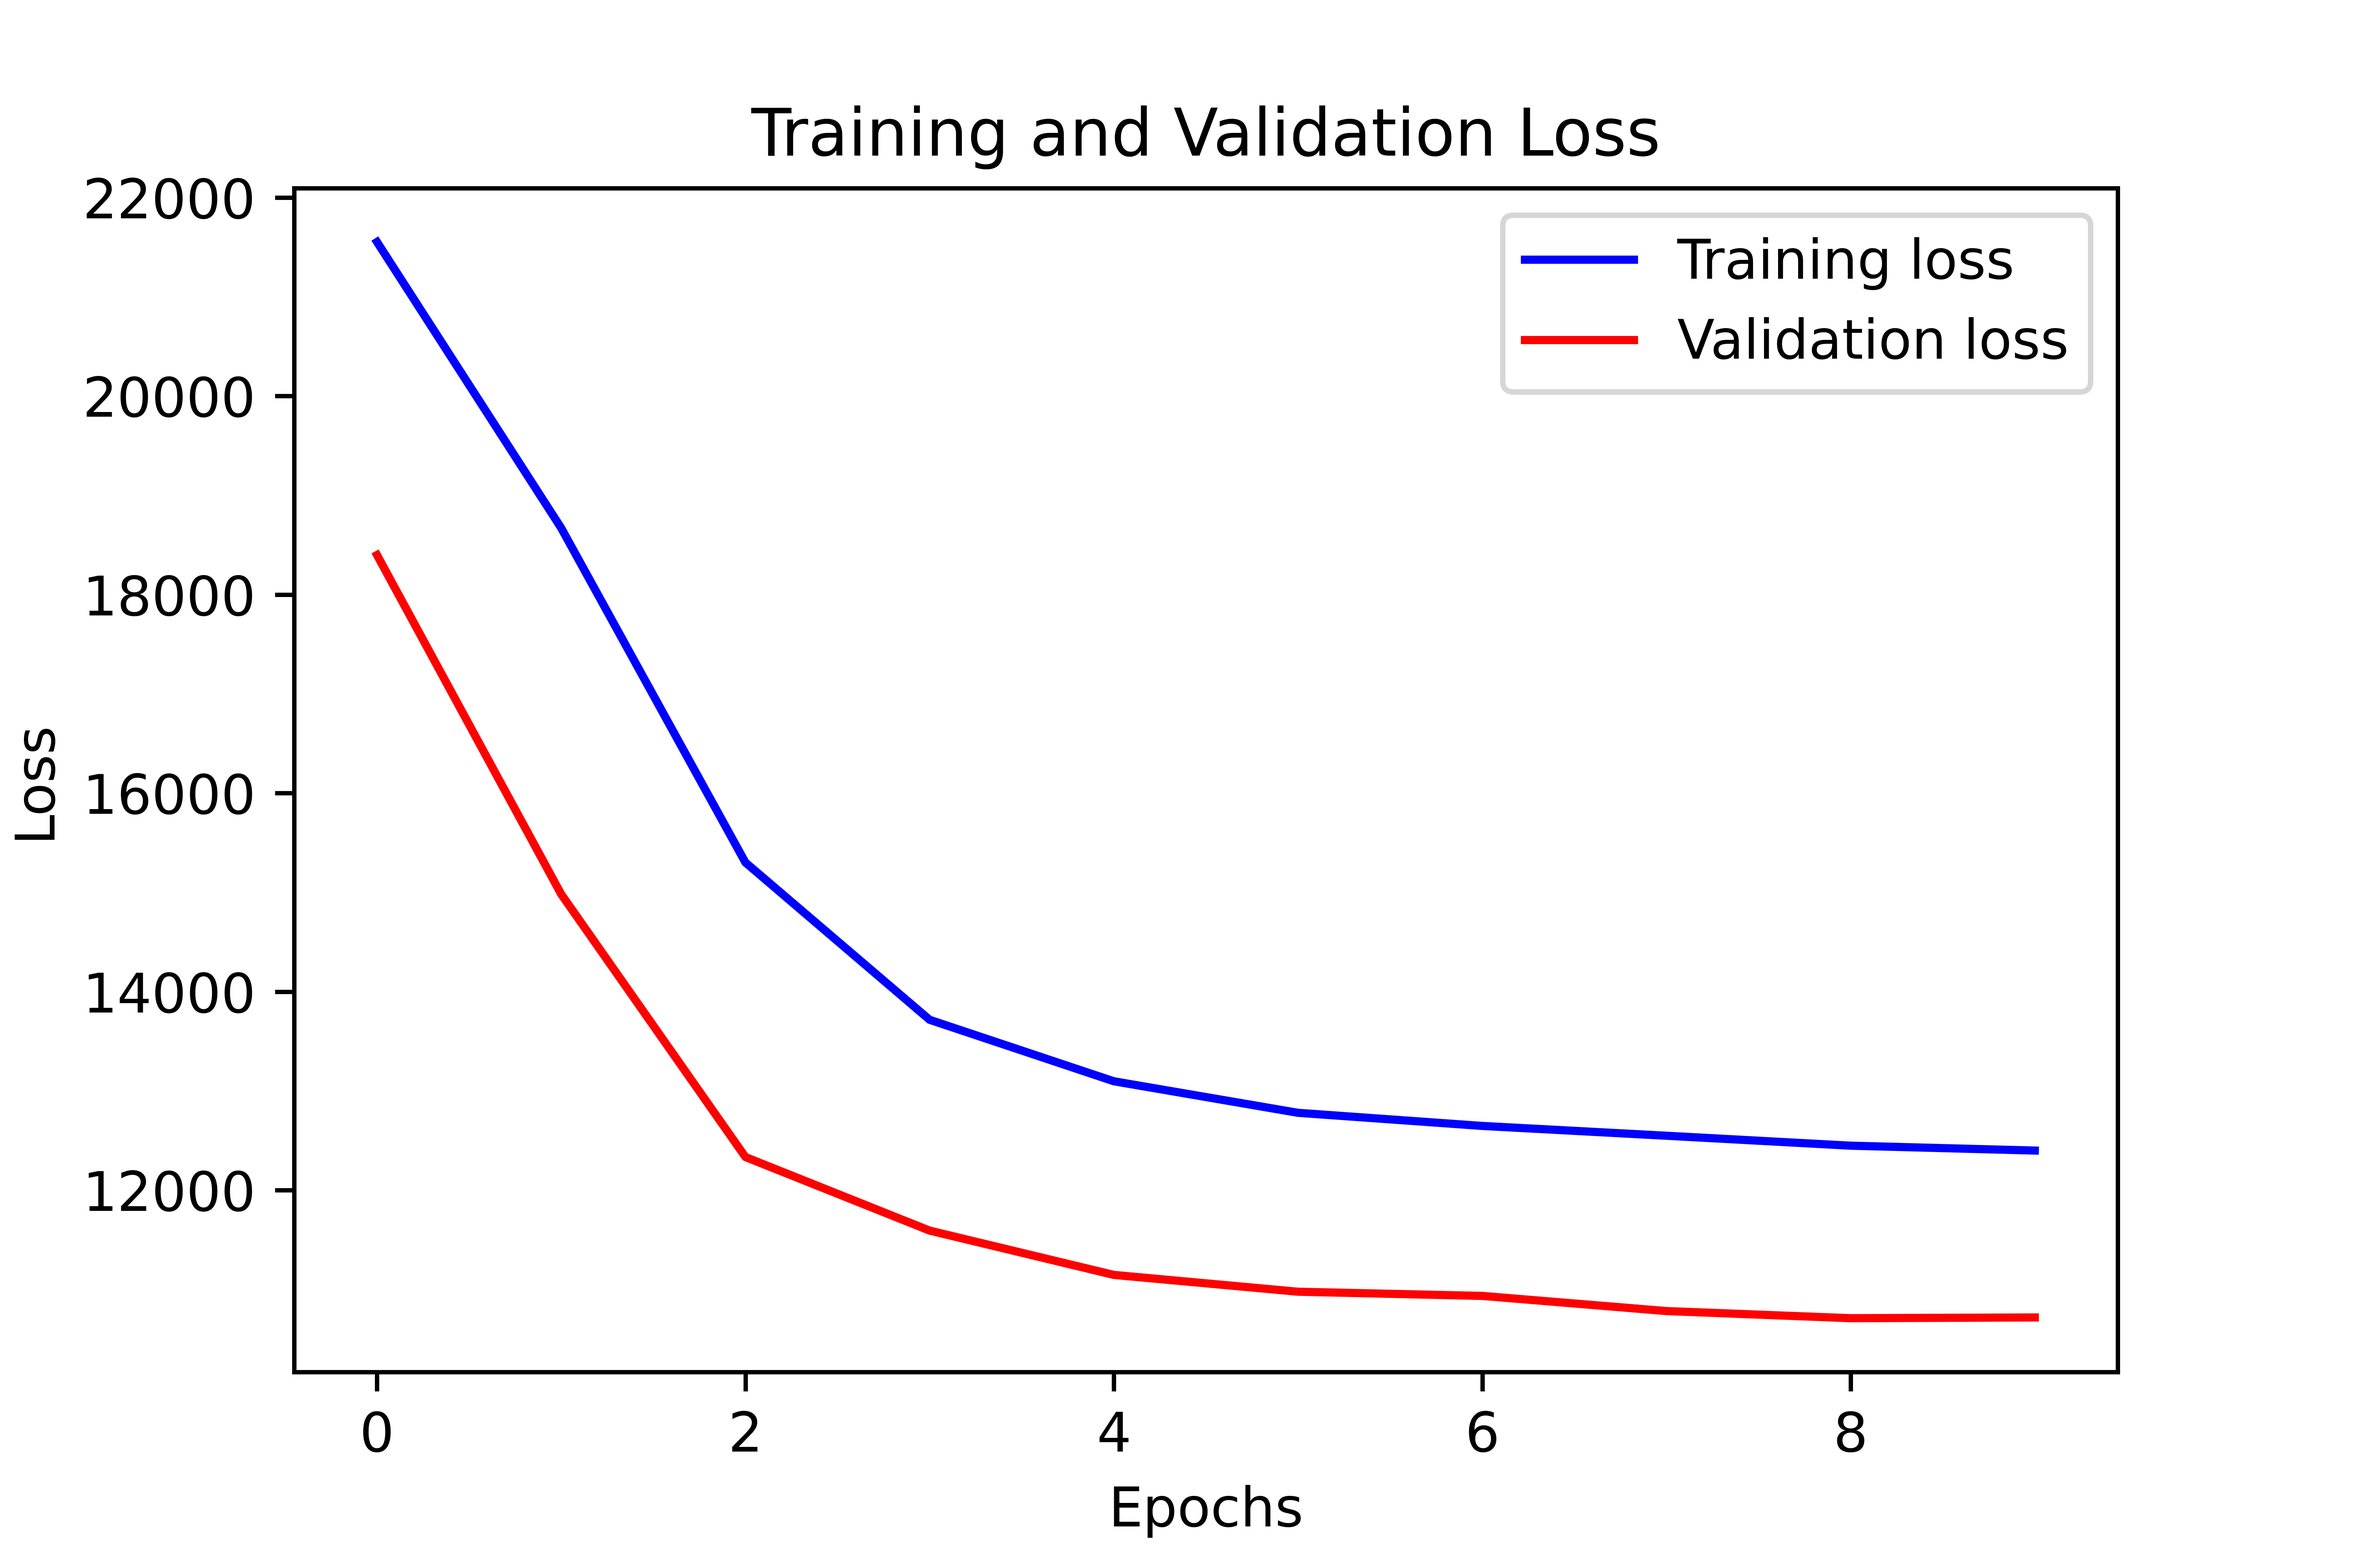
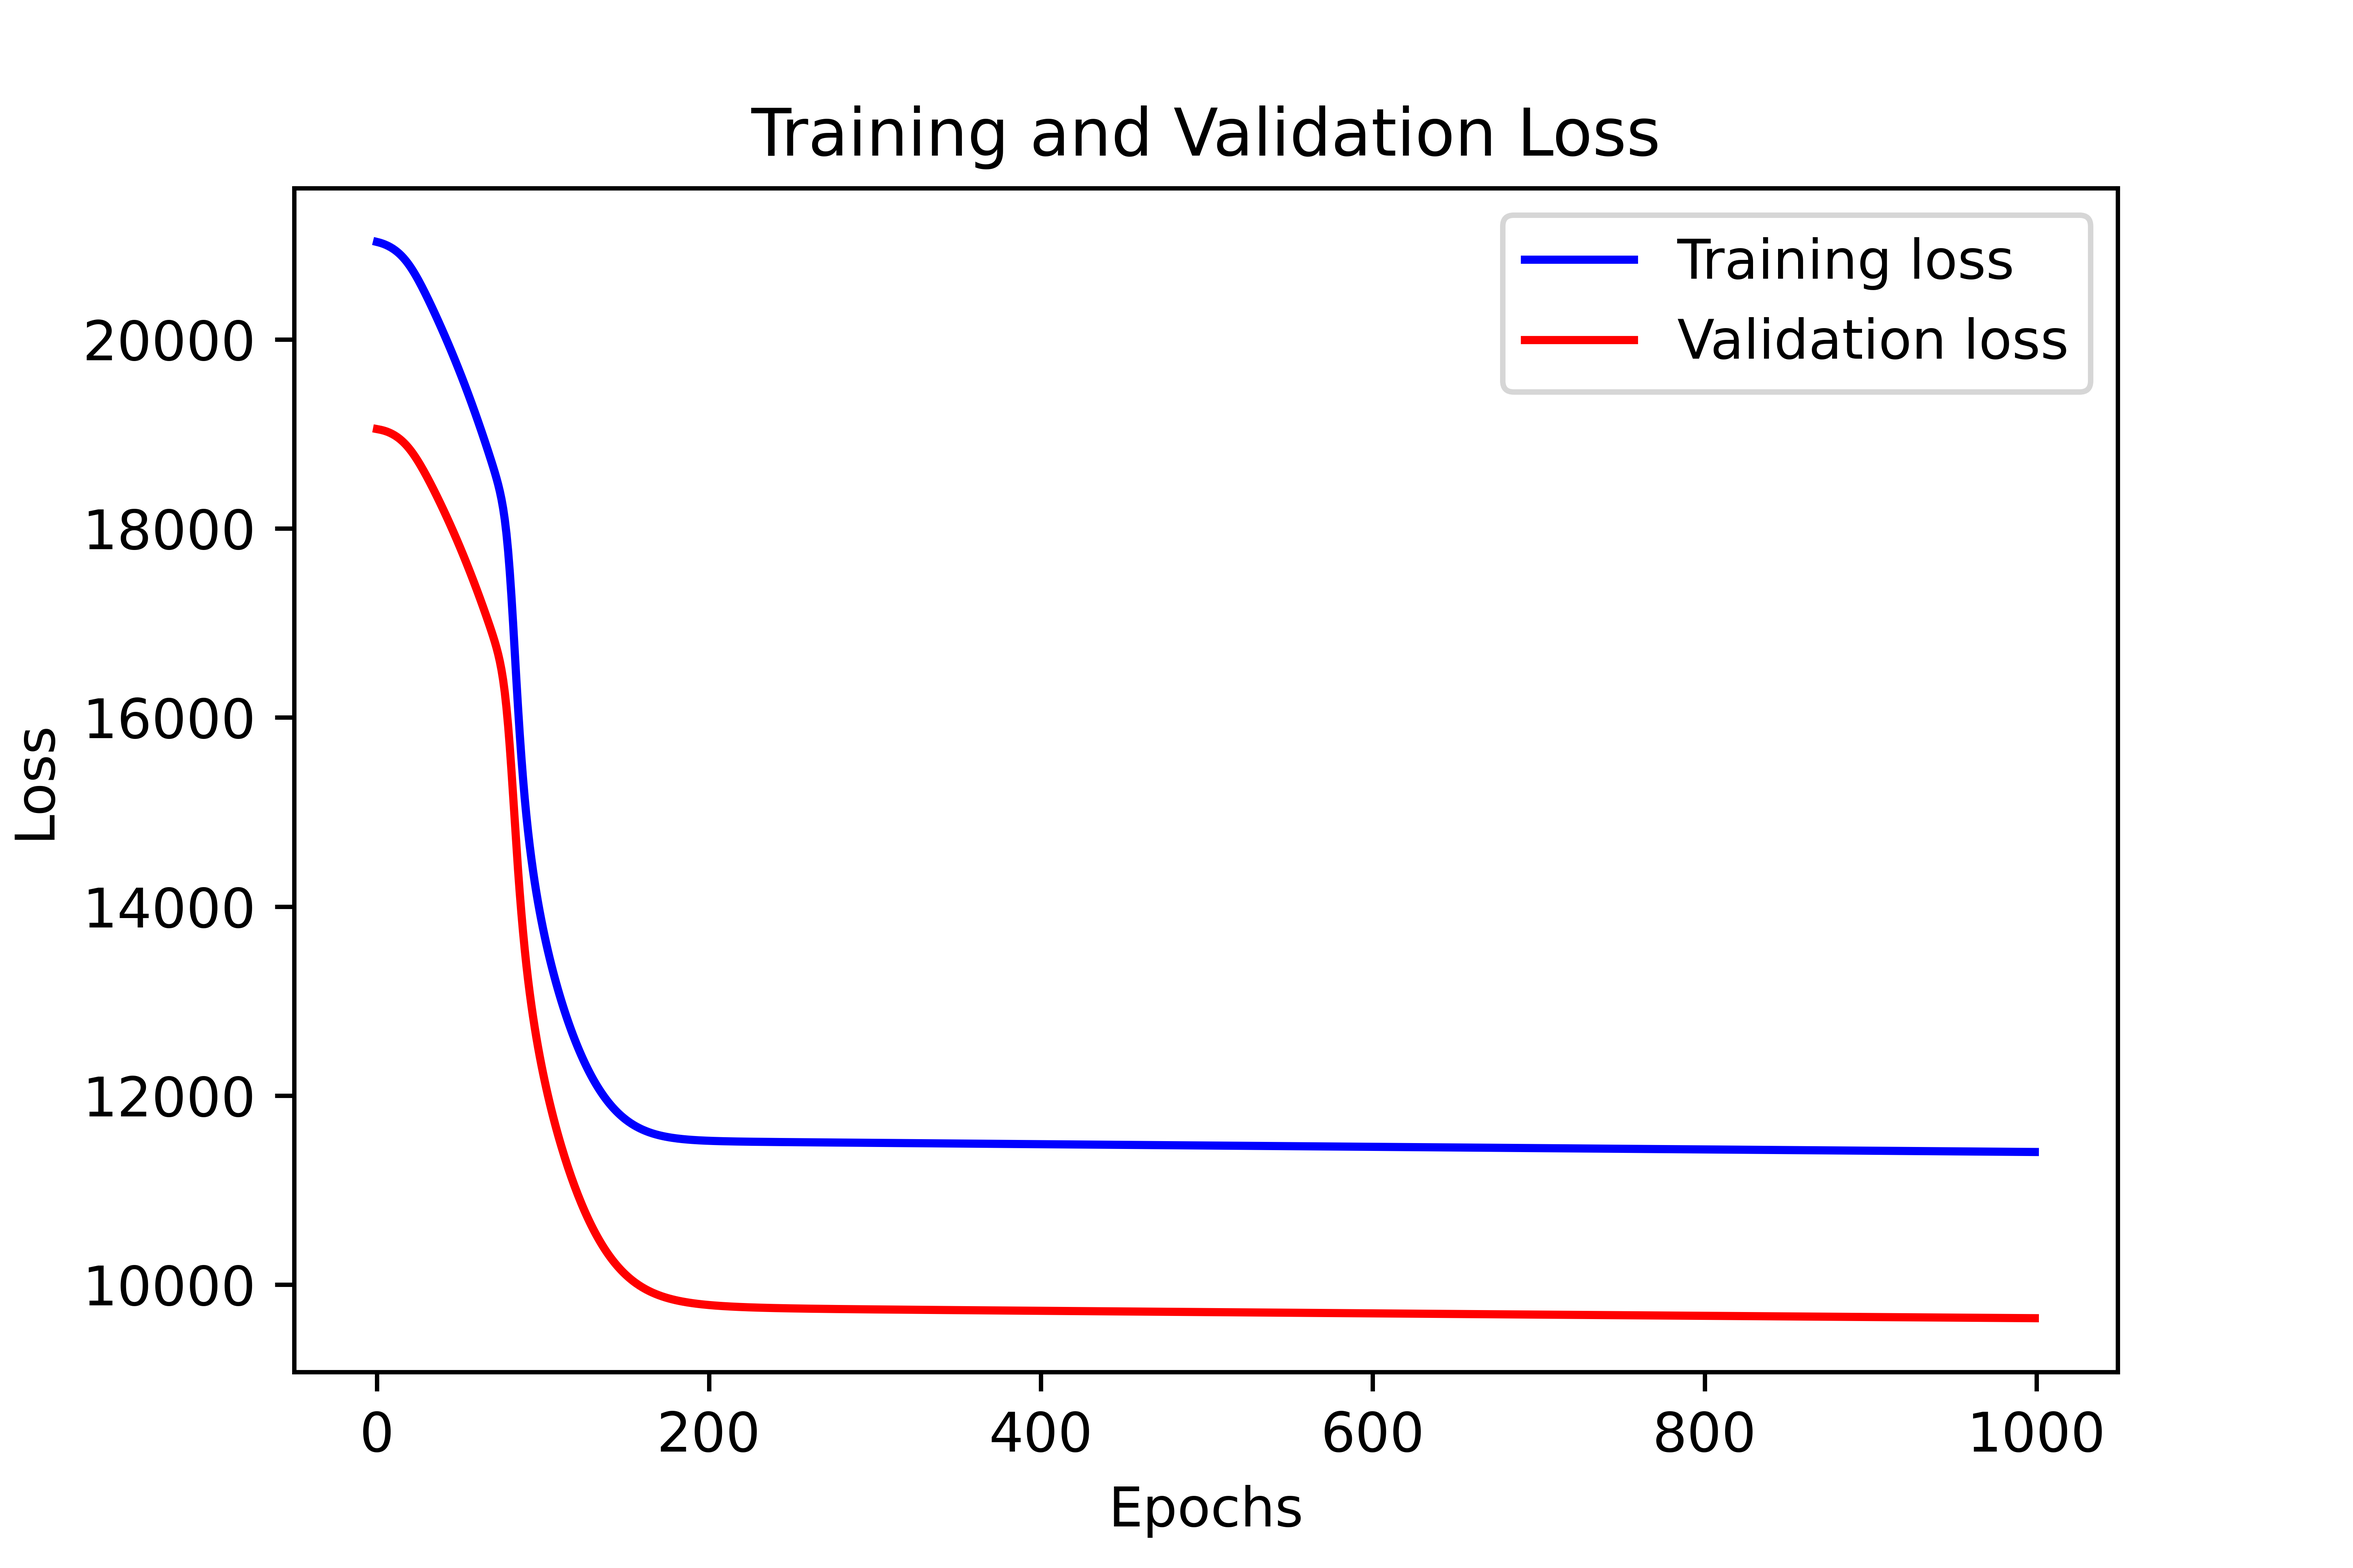
LSTM done, making df of predictions and MSE

diff --git a/final-project.py b/final-project.py
@@ -40,6 +40,7 @@ def visualize_loss(history, title,epochs):
 # %%
 # Reading csv
 df_predictions = pd.DataFrame()
+df_mse = pd.DataFrame(columns=['Model','MSE'])
 df_raw = pd.read_csv('final-data.csv', parse_dates=["date"])
 df = df_raw.copy()
 df['Date'] = pd.to_datetime(df_raw['date'])
@@ -1094,11 +1095,16 @@ plt.show()
 
 # %%
 # LSTM
-# 1e. Train/Test (80/20)
-n_input = 300
+### Keras Notes
+### Sequence_length and "unit" must be same value
+### Any inp
+epochs=100
+sequence_length = 12
+learning_rate=10 ** -4
 n_features = 25
 
-df_lstm = pd.read_csv('final-data.csv')
+#df_lstm = pd.read_csv('final-data.csv')
+df_lstm = df.copy()
 df_lstm.set_index('date', inplace=True)
 del df_lstm['rv1']
 del df_lstm['rv2']
@@ -1111,109 +1117,63 @@ df_train = df_lstm.iloc[:index_val, :]
 df_val = df_lstm.iloc[index_val:index_train, :]
 df_test = df_lstm.iloc[index_train:, :]
 
-
-# x_train, x_test, y_train, y_test = np.array(df_train.iloc[:,1:]),np.array(df_train.iloc[:,1]),np.array(df_test.iloc[:,1:]),np.array(df_test.iloc[:,1])
-
 tr_x = np.array(df_train.drop(columns=['Appliances'])).reshape(
     len(df_train), 25)
 
 tr_y = np.array(df_train[['Appliances']]).reshape(len(df_train), 1)
 
 val_x = np.array(df_val.drop(columns=['Appliances'])).reshape(
-    len(df_val), n_features, 1).reshape(len(df_val), 25, 1)
+    len(df_val), n_features, 1)
 
 val_y = np.array(df_val[['Appliances']]).reshape(len(df_val), 1, 1)
 
 test_x = np.array(df_test.drop(columns=['Appliances'])).reshape(
-    len(df_test), n_features, 1).reshape(len(df_test), 25, 1)
+    len(df_test), n_features, 1)
 
 test_y = np.array(df_test[['Appliances']]).reshape(df_test.shape[0], 1, 1)
 
-# #####
-# x_train = np.array(df_train.drop(columns=['Appliances','date']))
-# x_train_shaped = np.reshape(x_train,(len(x_train),25,1))
-# y_train = np.array(df_train.iloc[:,[1]])
-# y_train_shaped = np.reshape(y_train,(len(y_train),1,1))
-# x_val = np.array(df_val.drop(columns=['Appliances','date']))
-# x_val_shaped = np.reshape(x_val,(len(x_val),25,1))
-# y_val = np.array(df_val.iloc[:,[1]])
-# y_val_shaped = np.reshape(y_val,(len(y_val),1,1))
-# x_test = np.array(df_test.drop(columns=['Appliances','date']))
-# x_test_shaped = np.reshape(x_test,(len(x_test),25,1))
-# y_test = np.array(df_test.iloc[:,[1]])
-# y_test_shaped = np.reshape(y_test,(len(y_test),1,1))
-
-
-# train_loaded = TimeseriesGenerator(
-#     # x_train_shaped,
-#     # y_train_shaped,
-#     data=tr_x,
-#     targets=tr_y,
-#     length=n_input,
-
-# )
-# val_loaded = TimeseriesGenerator(
-#     # x_val_shaped,
-#     # y_val_shaped,
-#     data = val_x,
-#     targets = val_y,
-#     length=n_input,
-
-
-# )
-# test_loaded = TimeseriesGenerator(
-#     # x_test_shaped,
-#     # y_test_shaped,
-#     data=test_x,
-#     targets = test_y,
-#     length=n_input,
-
-# )
-
-# model = Sequential()
-# model.add(LSTM(50,activation = 'relu',return_sequences = True,input_shape=(50,1)))
-# model.add(Dense(1))
-# model.compile(loss='mean_squared_error', optimizer="adam", metrics=['mean_squared_error'])
-
-
-# model.fit(train_loaded,validation_data=val_loaded, epochs=1000)
 #%%
+
+
+
+
 inputs = timeseries_dataset_from_array(
-    data=tr_x, targets=None, sequence_length=2)
+    data=tr_x, targets=None, sequence_length=sequence_length)
 targets = timeseries_dataset_from_array(
-    data=tr_y, targets=None, sequence_length=2)
+    data=tr_y, targets=None, sequence_length=sequence_length)
 
 dataset = tf.data.Dataset.zip((inputs, targets))
 
 inputs_val = timeseries_dataset_from_array(
-    data=val_x, targets=None, sequence_length=2)
+    data=val_x, targets=None, sequence_length=sequence_length)
 targets_val = timeseries_dataset_from_array(
-    data=val_y, targets=None, sequence_length=2)
+    data=val_y, targets=None, sequence_length=sequence_length)
 
 inputs_test = timeseries_dataset_from_array(
-    data=test_x, targets=None, sequence_length=2)
+    data=test_x, targets=None, sequence_length=sequence_length)
 targets_test = timeseries_dataset_from_array(
-    data=test_y, targets=None, sequence_length=2)
+    data=test_y, targets=None, sequence_length=sequence_length)
 
 
 dataset = tf.data.Dataset.zip((inputs, targets))
 dataset_val = tf.data.Dataset.zip((inputs_val, targets_val))
 
-# %%
-epochs=1000
 model = Sequential()
 model.add(LSTM(25, activation='relu',
           return_sequences=True, input_shape=(None, 25)))
 model.add(LSTM(25, activation='relu',
           return_sequences=True, input_shape=(None, 25)))
 model.add(Dense(1))
-model.compile(loss='mean_squared_error',optimizer=tf.keras.optimizers.Adam(learning_rate=10 ** -5),
+model.compile(loss='mean_squared_error',optimizer=tf.keras.optimizers.Adam(learning_rate=learning_rate),
               metrics=[tf.keras.metrics.RootMeanSquaredError()])
-history = model.fit(dataset,validation_data=dataset_val,epochs=epochs,verbose = 2)
+history = model.fit(dataset,validation_data=dataset_val,epochs=epochs,verbose = 1)
+
 visualize_loss(model.history, "Training and Validation Loss",epochs)
 
 
 # %%
-df_predictions['LSTM'] = model.predict(inputs_test)
+# predictions
+lstm_pred = np.array(model.predict(inputs_test)).flatten
+df_predictions[f'lstm_{epochs}_epoch'] = lstm_pred
 
 # %%

diff --git a/README.md b/README.md
@@ -57,7 +57,7 @@ determination). Pick at least two orders using GPAC table. (Done)
   - Is the derived model biased or this is an unbiased estimator?
   - Check the variance of the residual errors versus the variance of the forecast errors.
   - If you find out that the ARIMA or SARIMA model may better represents the dataset, then you can find the model accordingly. You are not constraint only to use of ARMA model. Finding an ARMA model is a minimum requirement and making the model better is always welcomed.
-- Deep Learning Model: Fit the dataset into multivariate LSTM model. You also need to perform hstep prediction using LSTM model. You can use tensorflow package in python for this section.
+- Deep Learning Model: Fit the dataset into multivariate LSTM model. You also need to perform hstep prediction using LSTM model. You can use tensorflow package in python for this section. (done)
 - Final Model selection: There should be a complete description of why your final model was picked over base-models ARMA, ARIMA, SARIMA and LSTM. You need to compare the performance of various models developed for your dataset and come up with the best model that represent the dataset the best.
 - Forecast function: Once the final mode is picked (SARIMA), the forecast function needs to be
 developed and included in your report.
